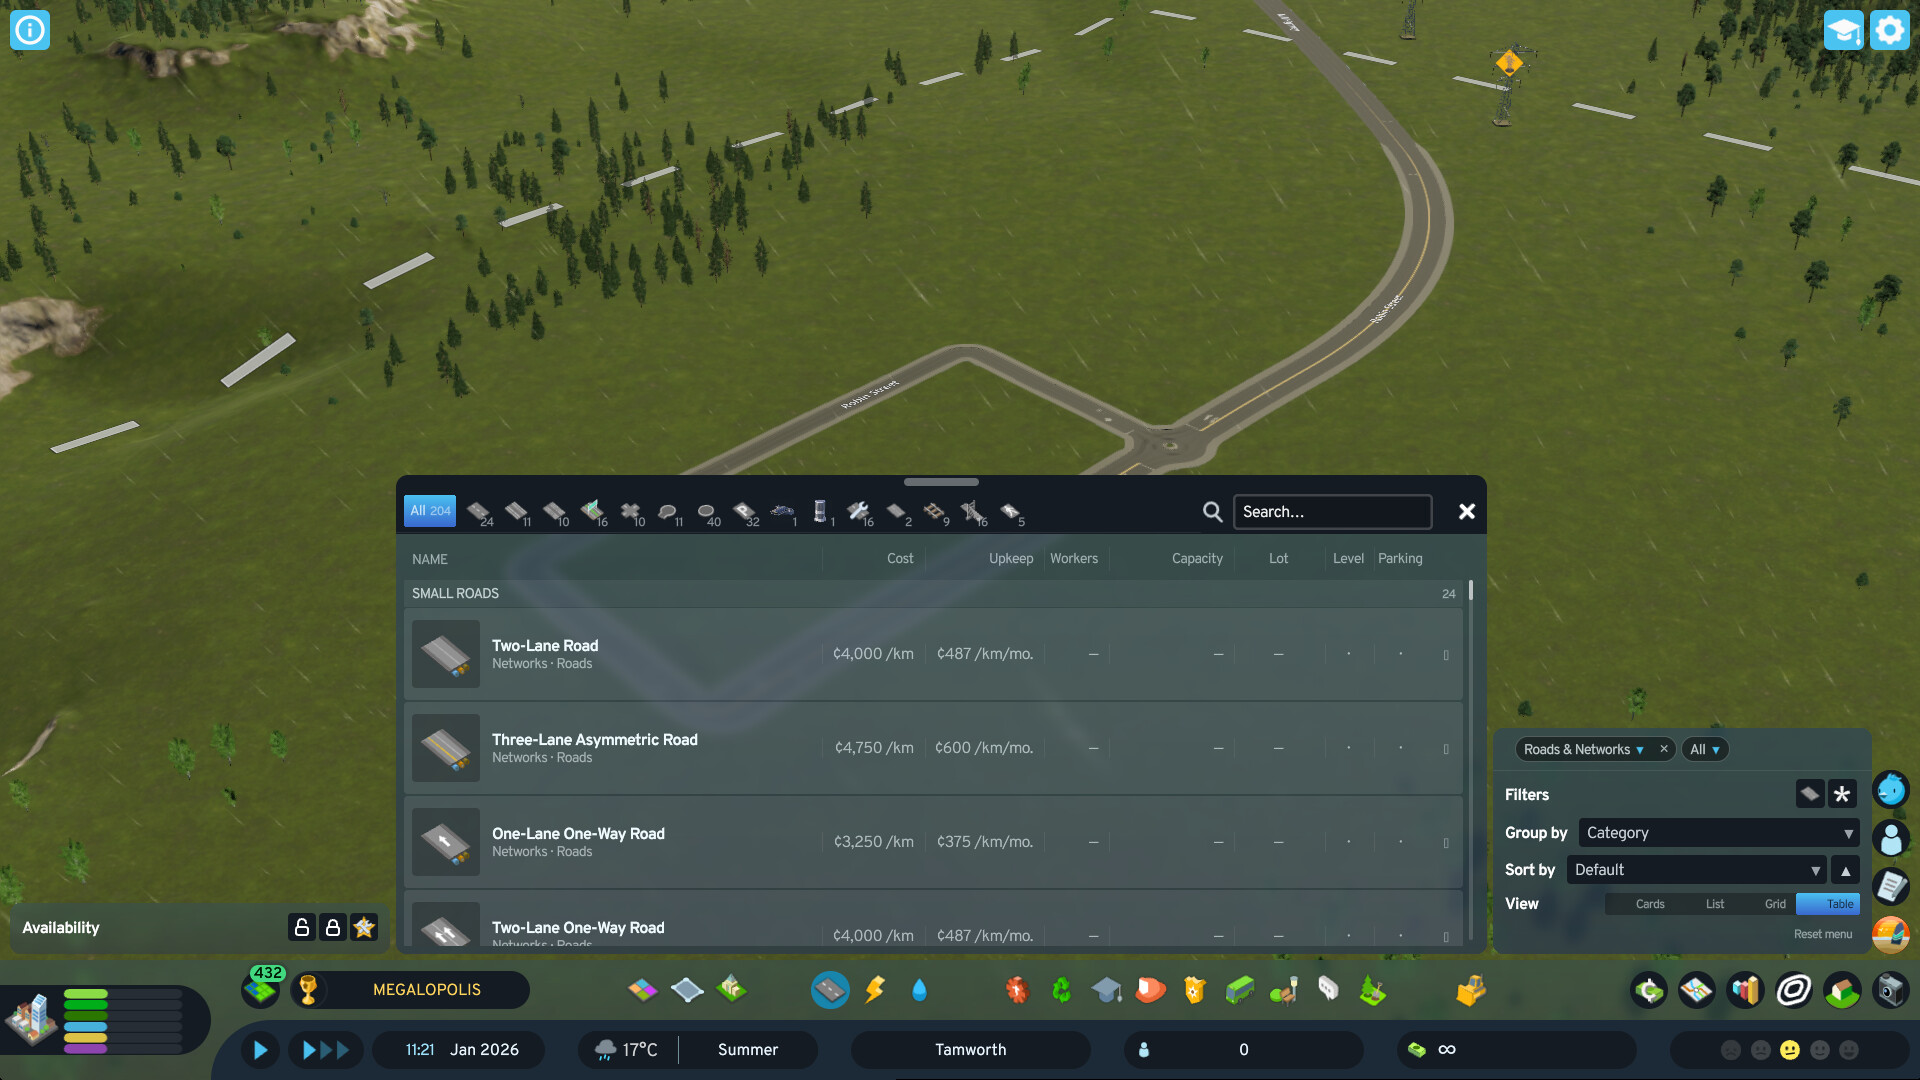
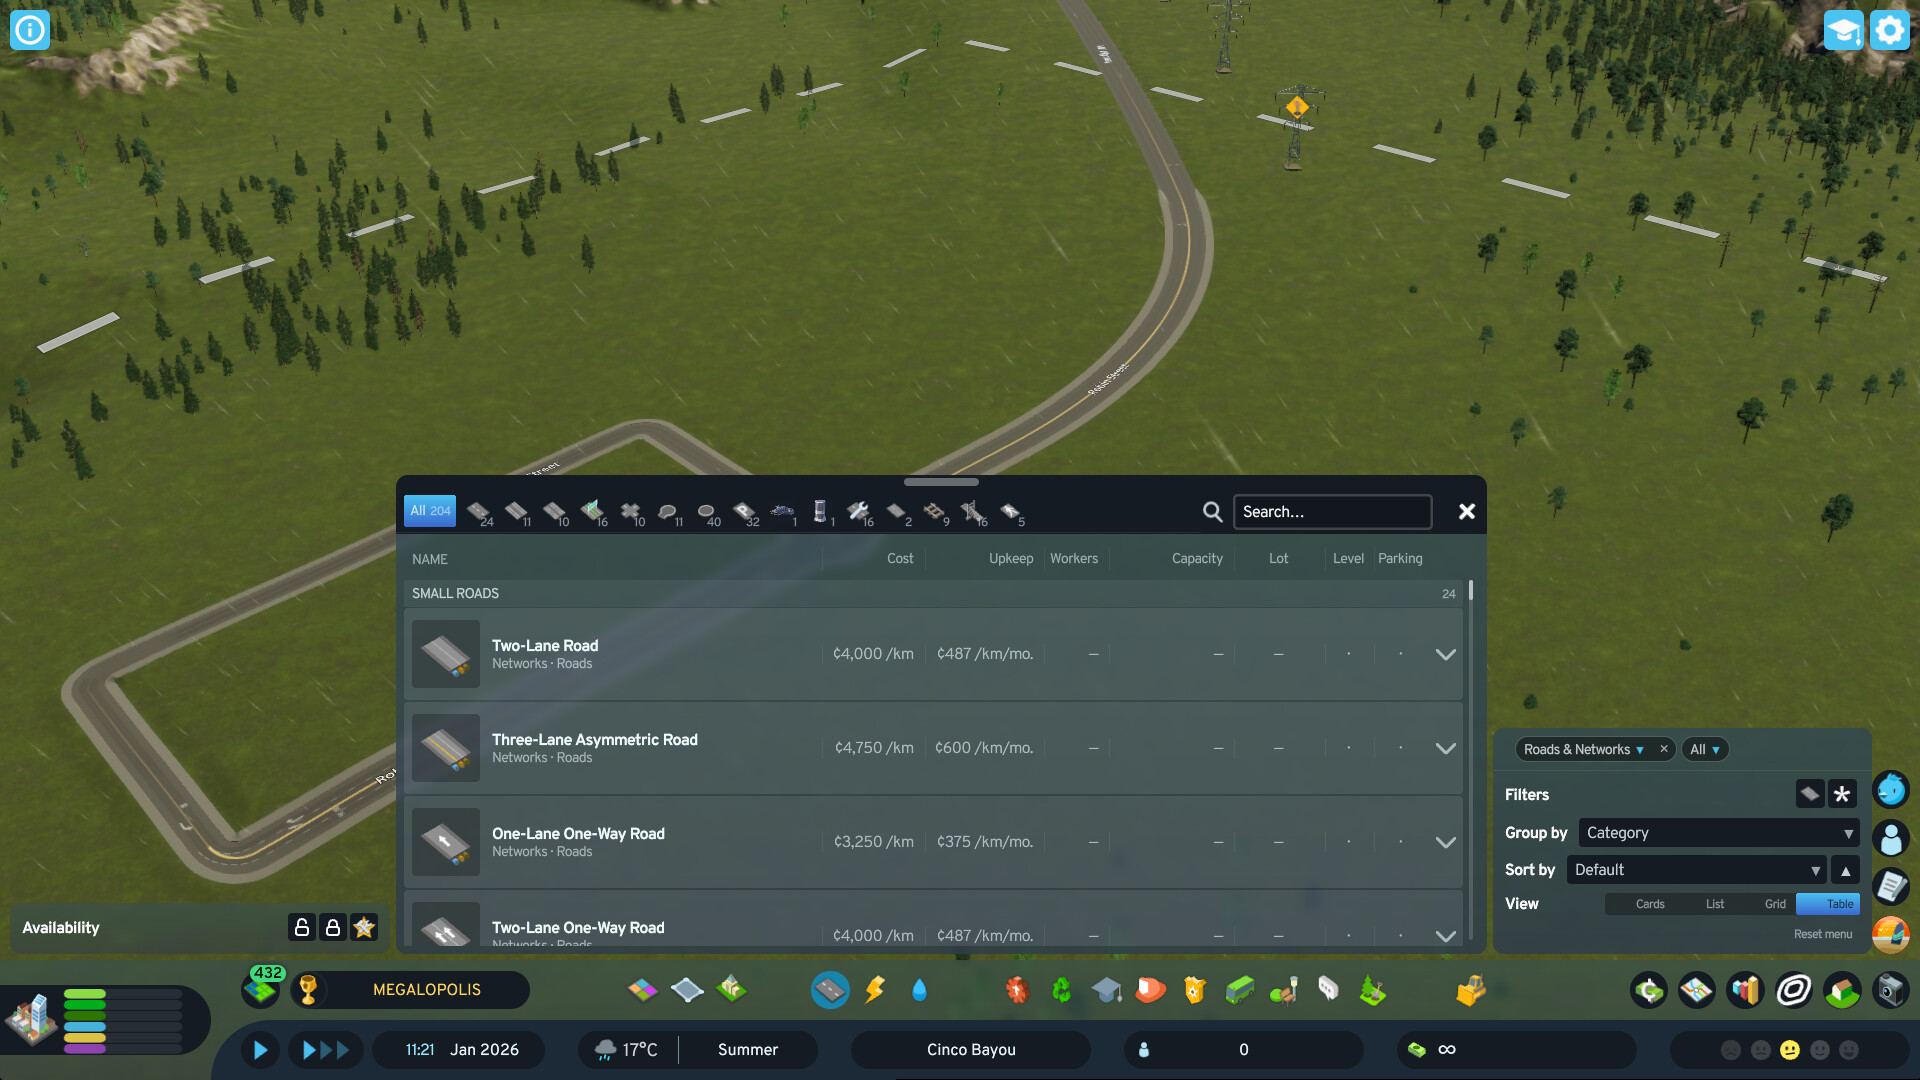
fix: the table row's expand chevron is the game's arrow glyph, not a character Noto Sans lacks
U+2304/U+2303 drew as a missing-glyph box at the end of every row; the
game's UI face does not carry them. The control now masks
Media/Glyphs/StrokeArrowDown.svg (Up when expanded) in the button's
colour, the way the header's close button draws its glyph. A source
contract keeps the characters out. Verified live on 100 rows; the table
screenshot is retaken.

Claude-Session: https://claude.ai/code/session_01DH4nVvAbxBMPua1tEQAXWY

diff --git a/BetterBuildingMenu/UI/test/tableChevronGlyph.test.ts b/BetterBuildingMenu/UI/test/tableChevronGlyph.test.ts
@@ -1,0 +1,25 @@
+import assert from "node:assert/strict";
+import { readFileSync } from "node:fs";
+import { describe, it } from "node:test";
+
+/**
+ * A source contract, in the stylesheetContracts pattern.
+ *
+ * Seen 2026-09-09 in the store screenshot of the Table view: the expand
+ * control at the end of every row drew as a missing-glyph box. It was the
+ * characters U+2304 (⌄) and U+2303 (⌃), which the game's UI face, Noto Sans,
+ * does not carry. The game ships arrow glyphs as SVG under Media/Glyphs, and
+ * those are what its own dropdowns draw, so the control uses them instead.
+ */
+const row = readFileSync(new URL("../src/mods/BuildingCatalog/TableRow.tsx", import.meta.url), "utf8");
+
+describe("the table row's expand control draws a glyph the game's font can show", () => {
+  it("does not use the arrowhead characters Noto Sans lacks", () => {
+    assert.doesNotMatch(row, /[⌃⌄‸∧∨]/, "U+2303/U+2304 draw as a box in the game");
+  });
+
+  it("draws the game's own stroke arrow glyphs", () => {
+    assert.match(row, /Media\/Glyphs\/StrokeArrowDown\.svg/);
+    assert.match(row, /Media\/Glyphs\/StrokeArrowUp\.svg/);
+  });
+});

diff --git a/BetterBuildingMenu/UI/src/mods/BuildingCatalog/TableRow.tsx b/BetterBuildingMenu/UI/src/mods/BuildingCatalog/TableRow.tsx
@@ -229,7 +229,16 @@ export const TableRow = ({
         title={rowInspectLabel}
         data-expanded={expanded ? "true" : undefined}
       >
-        <span aria-hidden="true">{expanded ? "⌃" : "⌄"}</span>
+        {/* The game's own stroke arrow, masked so it takes the button's colour.
+            It was U+2304/U+2303, arrowhead characters the game's UI face, Noto
+            Sans, does not carry, so every row ended in a missing-glyph box
+            (seen in the 2026-09-09 store screenshot). */}
+        <img
+          className={styles.rowDetailsGlyph}
+          style={{ maskImage: expanded ? "url(Media/Glyphs/StrokeArrowUp.svg)" : "url(Media/Glyphs/StrokeArrowDown.svg)" }}
+          alt=""
+          aria-hidden="true"
+        />
       </Button>
       {expanded && (
         <BuildingResultDetails entry={entry} resolveFacetLabel={resolveFacetLabel} />

diff --git a/BetterBuildingMenu/UI/src/mods/BuildingCatalog/buildingCatalog.module.scss b/BetterBuildingMenu/UI/src/mods/BuildingCatalog/buildingCatalog.module.scss
@@ -1284,6 +1284,22 @@ $table-trailing-reserve: $row-padding-right + $row-details-width + $row-outer-pa
   color: var(--menuText1Normal);
 }
 
+// The chevron itself: a masked copy of the game's StrokeArrowDown/Up glyph,
+// painted in the button's text colour. An <img> under a mask is the same
+// construction the header's close button uses.
+.rowDetailsGlyph {
+  width: 14rem;
+  height: 14rem;
+  background-color: var(--menuText2Normal);
+  mask-size: contain;
+  mask-position: 50% 50%;
+  mask-repeat: no-repeat;
+}
+
+.rowDetailsButtonOpen .rowDetailsGlyph {
+  background-color: var(--menuText1Normal);
+}
+
 // An expanded row grows to fit its details instead of clipping them against
 // the fixed row height the table uses when collapsed.
 //

diff --git a/docs/verification.md b/docs/verification.md
@@ -2102,3 +2102,11 @@ tried first and crashed natively one to three minutes after every load, with
 the mod removed from both Mods roots as well; it references assets this install
 lacks (CitiesCarCustoms, PetrolPonyGarage, MuscleCar01–05, BusCO01,
 NA_PoliceVehicle02, GrandHotel01). Pushed to the listing with `Update`.
+
+**Table chevron (20:38).** The store screenshot showed a missing-glyph box at
+the end of every table row: the expand control was U+2304/U+2303, which Noto
+Sans lacks. It is now the game's own `Media/Glyphs/StrokeArrowDown.svg` /
+`StrokeArrowUp.svg` under a mask (the header's close button's construction).
+Live in a new Windy Fjords game at 1920x1080: 100 rows, every one carrying
+the masked glyph at 24x24px, zero text spans left; the frame shows plain
+down arrows. `Screenshot_03.jpg` retaken and pushed with `Update`.
